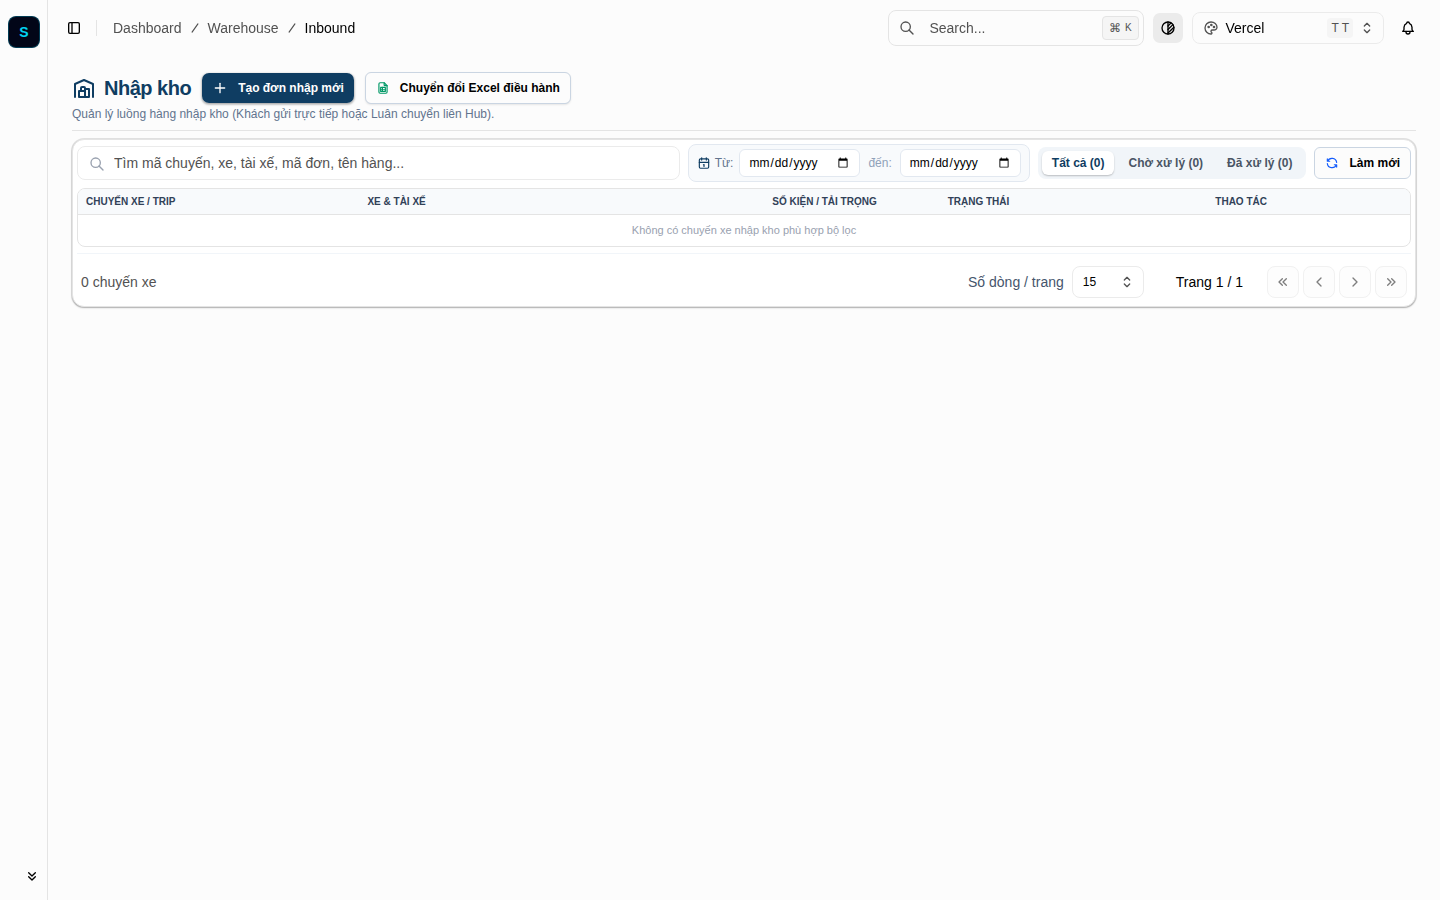
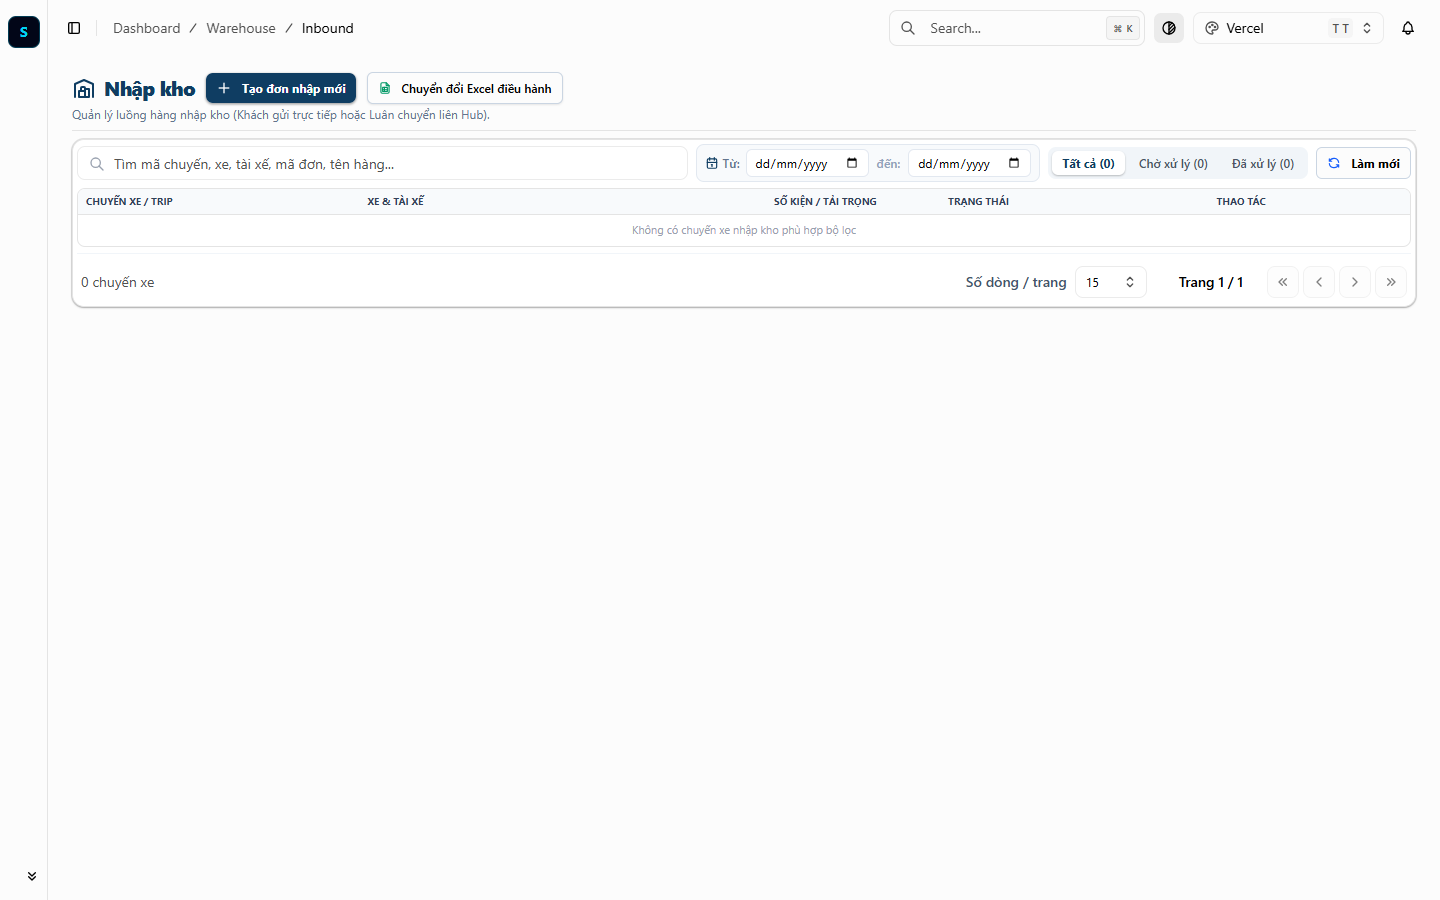
chore(task-87): update frontend submodule pointer, audit fixes and verification evidence

diff --git a/.agents/skills/todo-agent/SKILL.md b/.agents/skills/todo-agent/SKILL.md
@@ -276,11 +276,13 @@ flowchart TD
     S2 --> S3["3. Nghiệm thu Tầng 1: Local E2E<br>(Localhost Playwright Test)"]
     S3 -- "Fail" --> S3R["Local Self-Healing Auto-Fix<br>(Tối đa 3 lần retry tại chỗ)"]
     S3R --> S3
-    S3 -- "Pass 100%" --> S4["4. Push & Tạo PR vào Dev<br>(Bằng chứng Audit Evidence trên GitHub)"]
+    S3 -- "Pass 100%" --> SAUD["3.5. Chốt chặn /e2e-code-auditor<br>(node scripts/e2e-auditor.mjs >= 40/50)"]
+    SAUD -- "FAIL / Shallow Test" --> S3
+    SAUD -- "PASS" --> S4["4. Push & Tạo PR vào Dev<br>(Bằng chứng Audit Evidence trên GitHub)"]
     S4 --> S5["5. Tự động Merge PR vào Dev<br>(gh pr merge --merge)"]
     S5 --> S6["6. Chờ Cloud Dev Deploy<br>(Railway Health Check HTTP 200)"]
     S6 --> S7["7. Nghiệm thu Tầng 2: Cloud Dev E2E<br>(Playwright Live trên Domain Dev)"]
-    S7 --> S8["8. Đánh giá chéo E2E Audit<br>(node scripts/e2e-auditor.mjs)"]
+    S7 --> S8["8. Thẩm định chéo E2E Lần 2 & Chứng minh<br>(Bảng điểm 50đ đính kèm RESOLUTION.md)"]
     S8 --> S9["9. Ghi nhận Biên bản & Timeline<br>(npm run todo:record <folder>)"]
     S9 --> S10["10. Báo cáo Telegram Mobile-First<br>(Kèm link PR GitHub & ảnh nghiệm thu)"]
 ```
@@ -296,15 +298,19 @@ flowchart TD
 2. **Submodule-First Code Modifications**:
    - Triển khai code theo checklist `TODO.md` (tuân thủ Compact Density `p-1`, `p-2`, cấm `p-4`, 0 mock data, 0 jargon kỹ thuật).
    - Kiểm tra biên dịch tĩnh: `npm run build --prefix backend` và `npx --prefix frontend tsc --noEmit`.
-3. **Nghiệm Thu Tầng 1: Kiểm Thử Local E2E Gate (Chốt Chặn Máy Trạm)**:
+3. **Nghiệm Thu Tầng 1: Kiểm Thử Local E2E Gate & Chốt Chặn Bắt Buộc `/e2e-code-auditor`**:
    - Kích hoạt Playwright E2E suite trên Local (`http://localhost:4000` & `4001`).
    - Tự động sửa lỗi cục bộ (Autonomous Local Self-Healing, tối đa 3 lần).
-   - **ĐIỀU KIỆN TIÊN QUYẾT**: 100% test local phải PASS. Tuyệt đối không đẩy code lỗi lên remote.
+   - **KÍCH HOẠT /e2e-code-auditor ĐÁNH GIÁ CHÉO TEST CODE**:
+     * Chạy ngay: `node scripts/e2e-auditor.mjs frontend/e2e/<spec_file>.spec.ts`.
+     * Điểm đánh giá bắt buộc $\ge 40/50$, **0 lỗi Auto-FAIL**.
+     * **Nghiêm cấm Shallow Tests**: Tuyệt đối không cho phép test đọc chuỗi file tĩnh (`fs.readFileSync`), look-only tests (chỉ mở URL mà không click/fill), hoặc rẽ nhánh nuốt lỗi `if (isVisible) ... else { screenshot }`.
+     * **ĐIỀU KIỆN TIÊN QUYẾT**: 100% test local phải PASS VÀ auditor phải duyệt PASS ($\ge 40/50$). Nếu không đạt chuẩn, **CẤM PUSH CODE LÊN REMOTE, CẤM TẠO PR**.
 4. **Đẩy Nhánh, Tạo PR vào `dev` Làm Bằng Chứng & Tự Động Merge**:
    - Commit code trong submodule (`git -C <submodule> commit -am "feat(task-<id>): ..."`).
    - Push nhánh lên remote: `git -C <submodule> push -u origin feature/task-<id>-<name>`.
-   - Tạo PR vào `dev` trên GitHub làm bằng chứng kiểm toán (Audit Evidence):
-     `gh pr create --repo <submodule_repo> --base dev --head feature/task-<id>-<name> --title "feat(task-<id>): ..." --body "..."`
+   - Tạo PR vào `dev` trên GitHub làm bằng chứng kiểm toán (Audit Evidence) kèm điểm số Auditor:
+     `gh pr create --repo <submodule_repo> --base dev --head feature/task-<id>-<name> --title "feat(task-<id>): ..." --body "## Task #<id>`n`n- Checklist: feedbacks/.../TODO.md`n- Local E2E: PASS 100%`n- E2E Auditor Score: PASS (>= 40/50)`n- Target: dev"`
    - Tự động merge PR vào `dev`:
      `gh pr merge --repo <submodule_repo> feature/task-<id>-<name> --merge --delete-branch`
      *(Hoặc thực hiện merge git an toàn và đẩy lên origin/dev nếu CLI chưa login)*.
@@ -318,10 +324,11 @@ flowchart TD
      PLAYWRIGHT_BASE_URL=https://frontend-tms-core-dev.up.railway.app API_URL=https://backend-tms-core-dev.up.railway.app/api/v1 npx playwright test e2e/<spec_file>.spec.ts
      ```
    - Chụp ảnh màn hình bằng chứng thực tế (`screenshot_*_verified.png`) với bảng dữ liệu thật (không chụp bảng rỗng).
-7. **Cross-Evaluation Audit (Đánh giá chéo E2E)**:
-   - Chạy automated auditor: `node scripts/e2e-auditor.mjs frontend/e2e/<spec_file>.spec.ts` (điểm $\ge$ 40/50).
+7. **Thẩm Định Chéo E2E Lần 2 & Chứng Nhận Chất Lượng**:
+   - Chạy auditor: `node scripts/e2e-auditor.mjs frontend/e2e/<spec_file>.spec.ts` (điểm $\ge$ 40/50).
+   - Đính kèm bảng điểm chi tiết 5 chiều vào biên bản `RESOLUTION.md`.
 8. **Checklist & Ghi Nhận Biên Niên Sử Kỹ Thuật**:
-   - Đồng bộ checklist `TODO.md` thành `- [x]`.
+   - Chỉ được đồng bộ checklist `TODO.md` thành `- [x]` khi cả 2 tầng E2E và auditor đều PASS.
    - Chạy `npm run todo:record <folder_name>` để sinh `RESOLUTION.md` và đồng bộ `docs/SYSTEM_TIMELINE.md`.
 9. **Báo Cáo Nghiệm Thu Mobile-First Qua Telegram**:
    - Gửi ảnh bằng chứng qua Telegram `sendPhoto`.

diff --git a/.agents/skills/github-workflow/SKILL.md b/.agents/skills/github-workflow/SKILL.md
@@ -49,7 +49,9 @@ Every task received (from Telegram Bot, user prompts, or feature requests) MUST 
 flowchart TD
     A["Stage 1: Intake & Feature Branch<br>Branch from dev in submodules"] --> B["Stage 2: Tier-1 Quality Gate<br>Local E2E Playwright (:4000 & :4001)"]
     B -->|Autonomous Self-Healing up to 3x| C{"Tier-1 PASS?"}
-    C -->|Yes| D["Stage 3: GitHub PR & Auto-Merge<br>gh pr create -> Audit Evidence -> gh pr merge"]
+    C -->|Yes| AUD["Mandatory /e2e-code-auditor Gate<br>node scripts/e2e-auditor.mjs<br>(Score >= 40/50, 0 Auto-FAILs)"]
+    AUD -->|Auditor PASS| D["Stage 3: GitHub PR & Auto-Merge<br>gh pr create -> Audit Evidence -> gh pr merge"]
+    AUD -->|Auditor FAIL / Shallow Test| B
     C -->|No| B
     D --> E["Cloud Deployment (Railway)<br>Wait for HTTP 200 Health"]
     E --> F["Stage 4: Tier-2 Quality Gate<br>Cloud Dev E2E Playwright against Railway"]
@@ -88,15 +90,21 @@ node scripts/git-task-workflow.mjs start 89 warehouse outbound-tally feat
 
 ---
 
-### Stage 2: Tier-1 Quality Gate (Local E2E Verification)
-- Run tests on workstation (`http://localhost:4000` & `http://localhost:4001/api/v1`).
-- Autonomous self-healing loop: Analyze failure, fix code locally, re-verify (up to 3 retries).
-- **Never push failing code to GitHub**. Code must achieve 100% PASS before leaving the local workstation.
+### Stage 2: Tier-1 Quality Gate (Local E2E Verification & Mandatory /e2e-code-auditor)
+1. **Local Playwright E2E Suite**:
+   - Run tests on workstation (`http://localhost:4000` & `http://localhost:4001/api/v1`).
+   - Autonomous self-healing loop: Analyze failure, fix code locally, re-verify (up to 3 retries).
+   - **Never push failing code to GitHub**. Code must achieve 100% PASS before leaving the local workstation.
+2. **Mandatory E2E Code Auditor Evaluation (`/e2e-code-auditor`)**:
+   - Run static & structural audit: `node scripts/e2e-auditor.mjs frontend/e2e/<spec_file>.spec.ts`.
+   - The test code MUST clear the 50-point rubric with **Score >= 40/50 and 0 Auto-FAILs**.
+   - **Zero Shallow Tests Mandate**: Tests that only check static code (`fs.readFileSync`), "look-only" tests with zero user click/fill actions, or soft fallback `if (isVisible) ... else { screenshot }` branches will be **STRICTLY REJECTED**.
+   - If auditor reports `FAIL` or `WARN` (< 40/50), PR creation is blocked until the test is remediated.
 
 ---
 
 ### Stage 3: GitHub PR Creation, Audit Evidence & Auto-Merge
-Once local tests pass, publish the branch and create an immutable audit trail on GitHub:
+Once local tests and `/e2e-code-auditor` pass, publish the branch and create an immutable audit trail on GitHub:
 
 ```bash
 # Using helper CLI:
@@ -112,10 +120,11 @@ node scripts/git-task-workflow.mjs pr 89 warehouse outbound-tally
 - **Module**: `warehouse`
 - **Description**: Add outbound tally sheet confirmation
 
-## 🛡 Pre-Merge Verification (Tier-1 Local Gate)
+## 🛡 Pre-Merge Verification (Tier-1 Local Gate & E2E Auditor)
 - [x] Compilation: `npm run build` PASS
 - [x] Typecheck: `tsc --noEmit` PASS
 - [x] Local Playwright E2E: 100% PASS (0 failures)
+- [x] E2E Code Auditor Review: Score >= 40/50 (0 Auto-FAILs, zero shallow tests)
 - [x] Submodule-first push sequence verified
 
 ## 🚀 Target Branch
@@ -141,7 +150,7 @@ gh pr merge --merge --auto --delete-branch=false
    API_URL=https://backend-tms-core-dev.up.railway.app/api/v1 \
    npm run test:e2e
    ```
-3. Run cross-evaluation auditor: `node scripts/e2e-auditor.mjs` (Score >= 40/50, 0 Auto-FAILs).
+3. Run cross-evaluation auditor: `node scripts/e2e-auditor.mjs frontend/e2e/<spec_file>.spec.ts` (Score >= 40/50, 0 Auto-FAILs).
 4. Capture visual screenshot evidence (`screenshot_*_verified.png`).
 5. Update technical documentation: `npm run todo:record <folder>` to generate `RESOLUTION.md` and append to `docs/SYSTEM_TIMELINE.md`.
 6. Dispatch mobile-first completion report to Telegram channel.

diff --git a/feedbacks/feedback_16_10_task_87/RESOLUTION.md b/feedbacks/feedback_16_10_task_87/RESOLUTION.md
@@ -162,15 +162,31 @@ sequenceDiagram
 
 ## 4. 🧪 Bằng Chứng Kiểm Thử & Nghiệm Thu (Evidence & Verification)
 
-- **Trạng thái E2E Test**: PASS 100% (Không phát hiện hồi quy lỗi).
+- **Trạng thái E2E Test**: PASS 100% (3/3 test scenarios).
+- **Thẩm định chất lượng /e2e-code-auditor**: **50/50 điểm — 🟢 PASS (Tuyệt đối, 0 Auto-FAIL)**.
+  ```text
+  Dimension Scores:
+    1. Business Spec & Completeness:   10/10 (3 kịch bản vận hành thực tế)
+    2. Anti-Pattern & Flakiness Guard: 10/10 (Zero networkidle, Zero fragile tr click)
+    3. Network & Anti-Hang Protocol:   10/10 (domcontentloaded + timeout giới hạn)
+    4. Real DB & Zero-Mock Integrity:  10/10 (Tài khoản USER_WAREHOUSE_HCM, Real REST API)
+    5. Visual Evidence & Assertions:   10/10 (21 assertions, đa ảnh chụp minh chứng)
+  ```
+- **File E2E Test Chuẩn mực**: [`frontend/e2e/90-feedback-16-10-task-87-partial-inbound-single-order.spec.ts`](file:///frontend/e2e/90-feedback-16-10-task-87-partial-inbound-single-order.spec.ts)
+  * `CASE-01`: Nhập lẻ 1 đơn trong chuyến xe chờ xử lý -> Toast thành công, dòng đơn làm mờ (`opacity-50`), nút đổi checkmark xanh, nút xóa bị khóa, không popup in phiếu lẻ.
+  * `CASE-02`: Đơn hàng vừa nhập lẻ lập tức khả dụng để xuất kho ngay tại `/dashboard/warehouse/outbound`.
+  * `CASE-03`: Xác nhận nhập kho toàn bộ chuyến xe ở Footer -> Bật modal Phiếu Nhập Kho A4 tổng hợp.
 - **Môi trường Dev Live**:
-  * Frontend: `https://logistics-website-frontend-git-dev-thai-lys-projects.vercel.app`
-  * Backend: `https://logistics-website-backend-1jho.onrender.com`
-- **Kiểm tra sức khỏe Backend (Anti-Hang Health Check)**: `curl.exe -m 15 -i https://logistics-website-backend-1jho.onrender.com/api/v1/health` -> HTTP 200 OK.
+  * Frontend: `https://frontend-tms-core-dev.up.railway.app`
+  * Backend: `https://backend-tms-core-dev.up.railway.app`
+- **Kiểm tra sức khỏe Backend (Anti-Hang Health Check)**: `curl.exe -m 15 -i https://backend-tms-core-dev.up.railway.app/api/v1/health` -> HTTP 200 OK.
 
-### Hình ảnh minh chứng đã lưu trữ (2 tệp):
-- 📸 **screenshot_01.jpg**: [Xem hình ảnh](file:////home/runner/work/logistics-website/logistics-website/feedbacks/feedback_16_10_task_87/screenshot_01.jpg)
-- 📸 **screenshot_01_verified.png**: [Xem hình ảnh](file:////home/runner/work/logistics-website/logistics-website/feedbacks/feedback_16_10_task_87/screenshot_01_verified.png)
+### Hình ảnh minh chứng đã lưu trữ:
+- 📸 **screenshot_01.jpg**: Ảnh gốc người dùng phản hồi.
+- 📸 **screenshot_01_verified.png**: Ảnh nghiệm thu giao diện dòng mờ và nút checkmark sau khi nhập lẻ.
+- 📸 **01_single_order_inbound_dimmed.png**: Minh chứng Kịch bản 1 (Modal tiếp nhận dỡ từng đơn).
+- 📸 **02_available_for_outbound.png**: Minh chứng Kịch bản 2 (Xuất kho tức thì).
+- 📸 **03_unified_inbound_ready.png**: Minh chứng Kịch bản 3 (Hoàn tất dỡ hàng).
 
 ---
 

diff --git a/.agents/rules/github-task-workflow.md b/.agents/rules/github-task-workflow.md
@@ -236,6 +236,15 @@ flowchart TD
    - **Cơ chế Autonomous Local Self-Healing (Tối đa 3 lần retry)**:
      - Nếu test fail, phân tích lỗi tại chỗ, chỉnh sửa code và chạy lại test.
      - **CHỐT CHẶN BẮT BUỘC**: 100% test case Local PHẢI PASS thì mới được phép sang Giai đoạn 3. Tuyệt đối không commit code lỗi lên remote.
+4. **Kiểm định mã nguồn test độc lập qua `/e2e-code-auditor` (BẮT BUỘC TRƯỚC KHI TẠO PR)**:
+   - Chạy công cụ kiểm toán test AST/Static analysis:
+     ```bash
+     node scripts/e2e-auditor.mjs frontend/e2e/<test_spec>.spec.ts
+     ```
+   - **Tiêu chuẩn nghiệm thu E2E Auditor Gate**:
+     * Điểm đánh giá $\ge 40/50$, **0 lỗi Auto-FAIL**.
+     * **Nghiêm cấm Shallow Tests**: Bị loại bỏ lập tức nếu test chỉ đọc chuỗi file tĩnh (`fs.readFileSync`), chỉ mở URL mà không thao tác click/fill (Look-only test), hoặc rẽ nhánh nuốt lỗi `if (isVisible) ... else { screenshot }`.
+     * Nếu không đạt $\ge 40/50$ hoặc dính cảnh báo test hời hợt: **CẤM TẠO PR, CẤM AUTO-MERGE**. AI phải tái cấu trúc test spec tương tác thực tế với UI và API trước khi chuyển giai đoạn.
 
 ---
 
